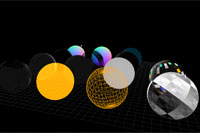
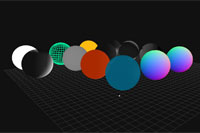
Made Canvas2d example worked

diff --git a/src/thothbot/squirrel/demo/client/content/MaterialsCanvas2D.java b/src/thothbot/squirrel/demo/client/content/MaterialsCanvas2D.java
@@ -23,6 +23,7 @@ import java.util.ArrayList;
 import java.util.List;
 
 import thothbot.squirrel.core.client.textures.Texture;
+import thothbot.squirrel.core.shared.Log;
 import thothbot.squirrel.core.shared.cameras.PerspectiveCamera;
 import thothbot.squirrel.core.shared.core.Color3f;
 import thothbot.squirrel.core.shared.core.Face3;
@@ -46,7 +47,6 @@ import thothbot.squirrel.demo.client.ContentWidget;
 import thothbot.squirrel.demo.client.Demo;
 import thothbot.squirrel.demo.client.DemoAnnotations.DemoSource;
 
-import com.google.gwt.canvas.client.Canvas;
 import com.google.gwt.canvas.dom.client.Context2d;
 import com.google.gwt.canvas.dom.client.ImageData;
 import com.google.gwt.core.client.GWT;
@@ -55,7 +55,6 @@ import com.google.gwt.dom.client.CanvasElement;
 import com.google.gwt.dom.client.Document;
 import com.google.gwt.resources.client.ImageResource;
 import com.google.gwt.user.client.rpc.AsyncCallback;
-import com.google.gwt.user.client.ui.Image;
 
 public final class MaterialsCanvas2D extends ContentWidget 
 {
@@ -116,6 +115,7 @@ public final class MaterialsCanvas2D extends ContentWidget
 			// Materials
 
 			Texture texture = new Texture( generateTexture() );
+
 			texture.setNeedsUpdate(true);
 
 			this.materials = new ArrayList<Material>();
@@ -134,7 +134,7 @@ public final class MaterialsCanvas2D extends ContentWidget
 			mpOpt.ambient = new Color3f(0x030303);
 			mpOpt.color = new Color3f(0xdddddd);
 			mpOpt.specular = new Color3f(0x009900);
-			mpOpt.shininess = 30;
+			mpOpt.shininess = 30f;
 			mpOpt.shading = Material.SHADING.FLAT;
 			materials.add( new MeshPhongMaterial( mpOpt ) );
 			
@@ -160,7 +160,7 @@ public final class MaterialsCanvas2D extends ContentWidget
 			materials.add( new MeshNormalMaterial( mnOpt ) );
 			
 			MeshBasicMaterial.MeshBasicMaterialOptions mbOpt1 = new MeshBasicMaterial.MeshBasicMaterialOptions();
-			mbOpt1.color = new Color3f(0xffaa00);
+			mbOpt1.color = new Color3f(0x00ffaa);
 			mbOpt1.wireframe = true;
 			materials.add( new MeshBasicMaterial( mbOpt1 ) );
 
@@ -171,7 +171,6 @@ public final class MaterialsCanvas2D extends ContentWidget
 			mlOpt3.emissive = new Color3f(0xff0000);
 			mlOpt3.ambient = new Color3f(0x000000);
 			mlOpt3.shading = Material.SHADING.SMOOTH;
-			
 			materials.add( new MeshLambertMaterial( mlOpt3 ) );
 			
 			MeshPhongMaterial.MeshPhongMaterialOptions mpOpt1 = new MeshPhongMaterial.MeshPhongMaterialOptions();
@@ -179,7 +178,7 @@ public final class MaterialsCanvas2D extends ContentWidget
 			mpOpt1.emissive = new Color3f(0xff0000);
 			mpOpt1.color = new Color3f(0x000000);
 			mpOpt1.specular = new Color3f(0x666666);
-			mpOpt1.shininess = 10;
+			mpOpt1.shininess = 10f;
 			mpOpt1.shading = Material.SHADING.SMOOTH;
 			mpOpt1.opacity = 0.9f;
 			mpOpt1.transparent = true;
@@ -198,13 +197,12 @@ public final class MaterialsCanvas2D extends ContentWidget
 
 			for ( int i = 0, l = geometry_pieces.getFaces().size(); i < l; i ++ ) 
 			{
-
 				Face3 face = geometry_pieces.getFaces().get( i );
 
-				if ( Math.random() > 0.7 )
-					face.setMaterialIndex( (int)Math.floor( Math.random() * materials.size() ) );
-
-				else
+//				if ( Math.random() > 0.7 )
+//					face.setMaterialIndex( (int)Math.floor( Math.random() * materials.size() ) );
+//
+//				else
 					face.setMaterialIndex( 0 );
 
 			}
@@ -240,9 +238,9 @@ public final class MaterialsCanvas2D extends ContentWidget
 
 			}
 			
-			MeshBasicMaterial.MeshBasicMaterialOptions plOpt = new MeshBasicMaterial.MeshBasicMaterialOptions();
-			plOpt.color = new Color3f(0xffffff);
-			this.particleLight = new Mesh( new Sphere( 4, 8, 8 ), new MeshBasicMaterial( plOpt ) );
+			MeshBasicMaterial.MeshBasicMaterialOptions mbOpt3 = new MeshBasicMaterial.MeshBasicMaterialOptions();
+			mbOpt3.color = new Color3f(0xffffff);
+			this.particleLight = new Mesh( new Sphere( 4, 8, 8 ), new MeshBasicMaterial( mbOpt3 ) );
 			getScene().addChild( this.particleLight );
 
 			// Lights
@@ -273,10 +271,9 @@ public final class MaterialsCanvas2D extends ContentWidget
 			ImageData image = context.getImageData( 0, 0, 256, 256 );
 
 			int x = 0, y = 0;
-
 			for ( int i = 0, j = 0, l = image.getData().getLength(); i < l; i += 4, j ++ ) 
 			{
-				x = j % 256;
+				x = j % 64;
 				y = x == 0 ? y + 1 : y;
 
 				image.getData().set( i, 255);
@@ -312,13 +309,19 @@ public final class MaterialsCanvas2D extends ContentWidget
 				object.getRotation().addX(0.01f);
 				object.getRotation().addY(0.005f);
 
+				Material material = this.materials.get( i ); 
+				if(i > 9 && material instanceof MeshPhongMaterial)
+				{
+					((MeshPhongMaterial)material).getEmissive()
+						.setHSV( 0.54f, 1.0f, (float) (0.7 * ( 0.5 + 0.5 * Math.sin( 35 * timer ) )) );	
+				}
+				else if(i > 9 && material instanceof MeshLambertMaterial)
+				{
+					((MeshLambertMaterial)material).getEmissive()
+						.setHSV( 0.04f, 1.0f, (float) (0.7 * ( 0.5 + 0.5 * Math.cos( 35 * timer ) )) );	
+				}
 			}
-
-			((MeshPhongMaterial)this.materials.get( materials.size() - 3 ))
-				.getEmissive().setHSV( 0.54f, 1.0f, (float) (0.7 * ( 0.5 + 0.5 * Math.sin( 35 * timer ) )) );
-			((MeshPhongMaterial)this.materials.get( materials.size() - 4 ))
-				.getEmissive().setHSV( 0.04f, 1.0f, (float) (0.7 * ( 0.5 + 0.5 * Math.cos( 35 * timer ) )) );
-
+			
 			this.particleLight.getPosition().setX( (float) (Math.sin( timer * 7 ) * 300.0) );
 			this.particleLight.getPosition().setY( (float) (Math.cos( timer * 5 ) * 400.0) );
 			this.particleLight.getPosition().setZ( (float) (Math.cos( timer * 3 ) * 300.0));
@@ -333,7 +336,7 @@ public final class MaterialsCanvas2D extends ContentWidget
 		
 	public MaterialsCanvas2D() 
 	{
-		super("Canvas 2D as texture", "This example based on the three.js example.");
+		super("Canvas 2D texture", "This example based on the three.js example.");
 	}
 	
 	@Override
